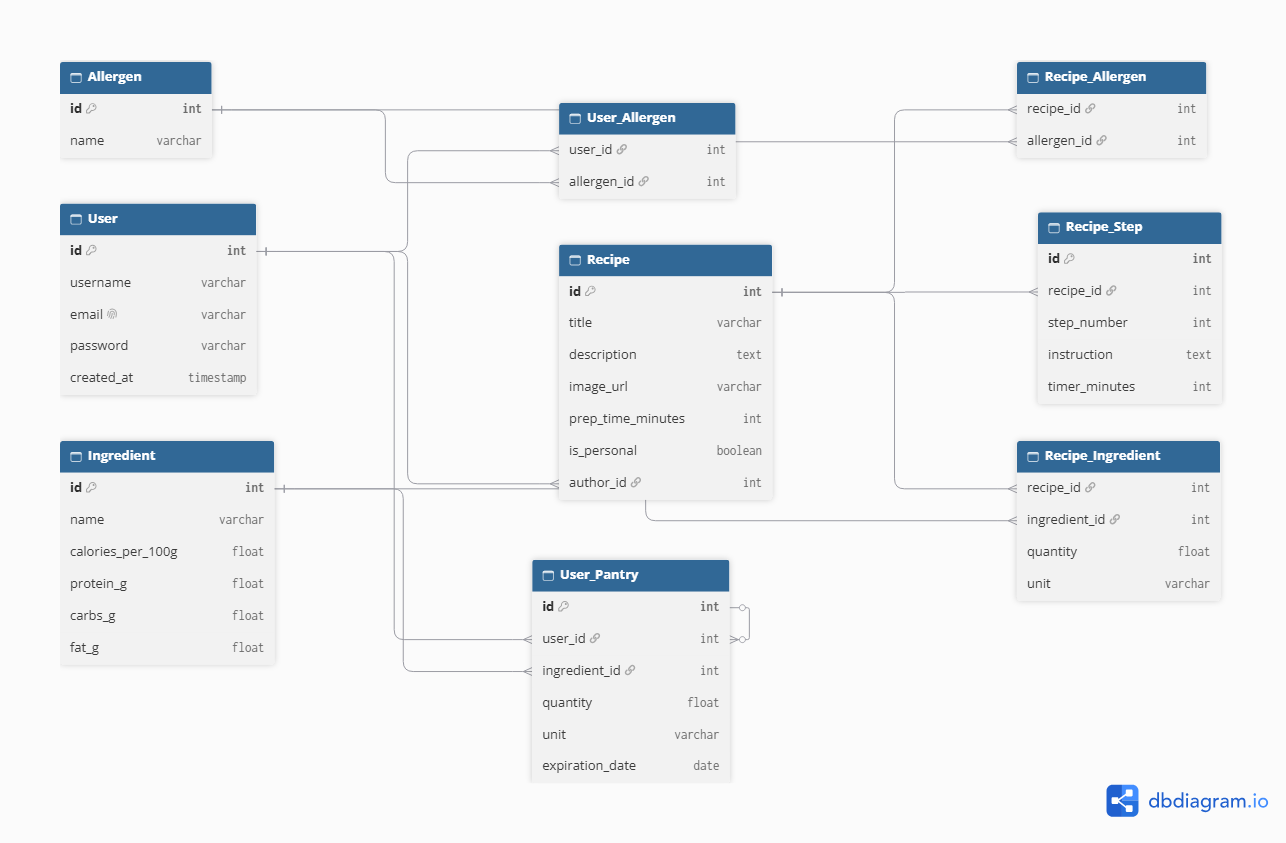
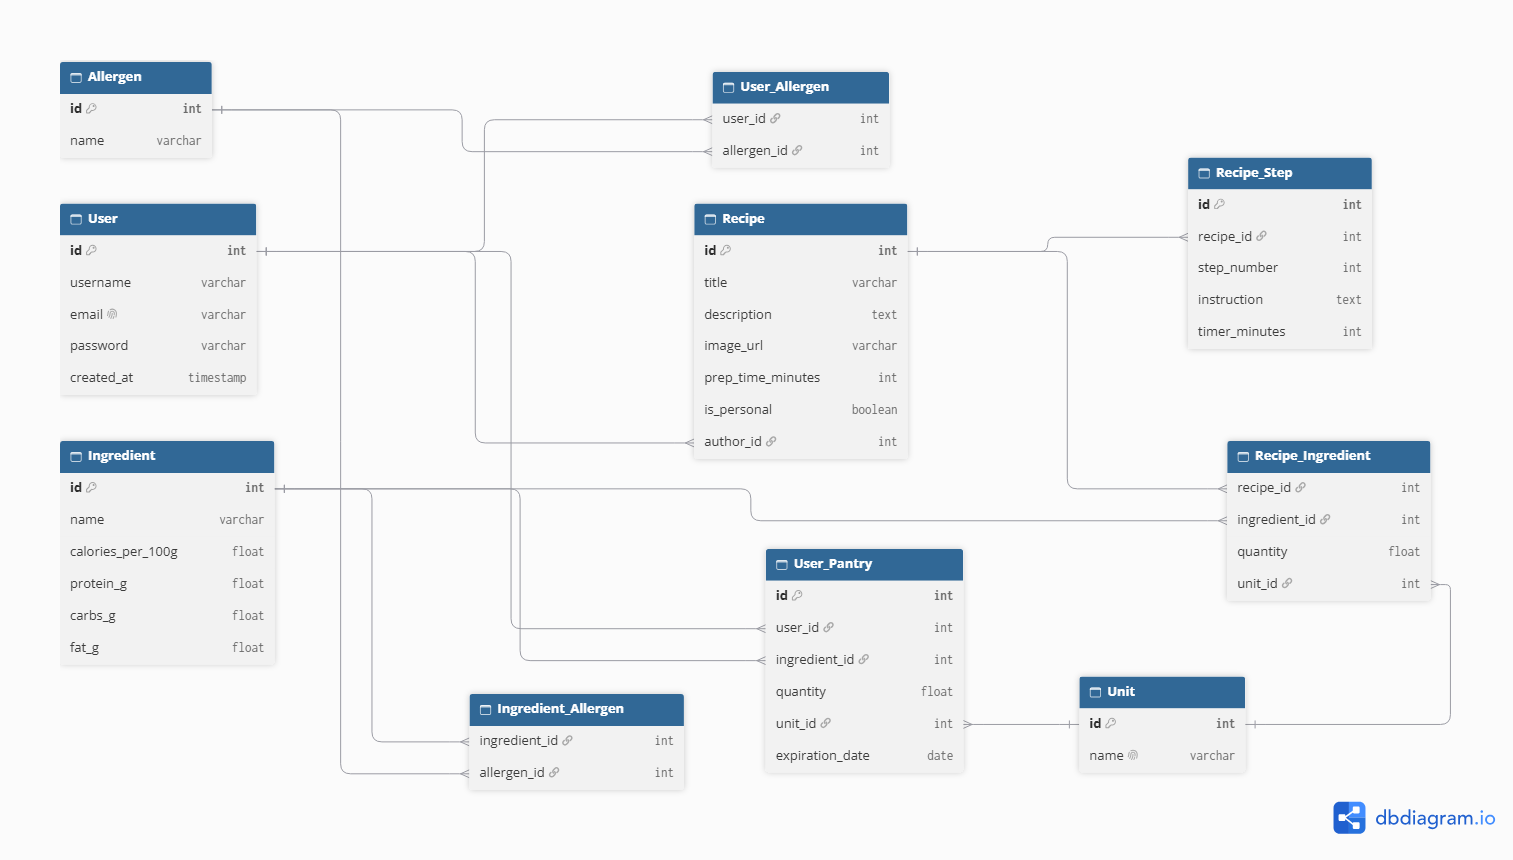
Feat: Add UnitRepository, UnitController and updated database diagram

diff --git a/simmer-backend/src/main/java/com/simmer/simmer_backend/controller/UnitController.java b/simmer-backend/src/main/java/com/simmer/simmer_backend/controller/UnitController.java
@@ -1,0 +1,26 @@
+package com.simmer.simmer_backend.controller;
+
+import com.simmer.simmer_backend.model.Unit;
+import com.simmer.simmer_backend.repository.UnitRepository;
+import org.springframework.http.ResponseEntity;
+import org.springframework.web.bind.annotation.*;
+
+import java.util.List;
+
+@RestController
+@RequestMapping("/api/units")
+@CrossOrigin(origins = "*")
+public class UnitController {
+
+    private final UnitRepository unitRepository;
+
+    public UnitController(UnitRepository unitRepository) {
+        this.unitRepository = unitRepository;
+    }
+
+    // GET: /api/units
+    @GetMapping
+    public ResponseEntity<List<Unit>> getAllUnits() {
+        return ResponseEntity.ok(unitRepository.findAll());
+    }
+}

diff --git a/simmer-backend/src/main/java/com/simmer/simmer_backend/repository/RecipeIngredientRepository.java b/simmer-backend/src/main/java/com/simmer/simmer_backend/repository/RecipeIngredientRepository.java
@@ -2,9 +2,11 @@ package com.simmer.simmer_backend.repository;
 
 import java.util.List;
 
+import org.springframework.data.jpa.repository.JpaRepository;
+
 import com.simmer.simmer_backend.model.RecipeIngredient;
 
-public interface RecipeIngredientRepository {
+public interface RecipeIngredientRepository extends JpaRepository<RecipeIngredient, Long> {
 
     List<RecipeIngredient> findByRecipeId(Long recipeId);
 

diff --git a/simmer-backend/src/main/java/com/simmer/simmer_backend/repository/UnitRepository.java b/simmer-backend/src/main/java/com/simmer/simmer_backend/repository/UnitRepository.java
@@ -1,0 +1,11 @@
+package com.simmer.simmer_backend.repository;
+
+import java.util.Optional;
+import org.springframework.data.jpa.repository.JpaRepository;
+import com.simmer.simmer_backend.model.Unit;
+
+public interface UnitRepository extends JpaRepository<Unit, Long> {
+
+    Optional<Unit> findByNameIgnoreCase(String name);
+
+}
